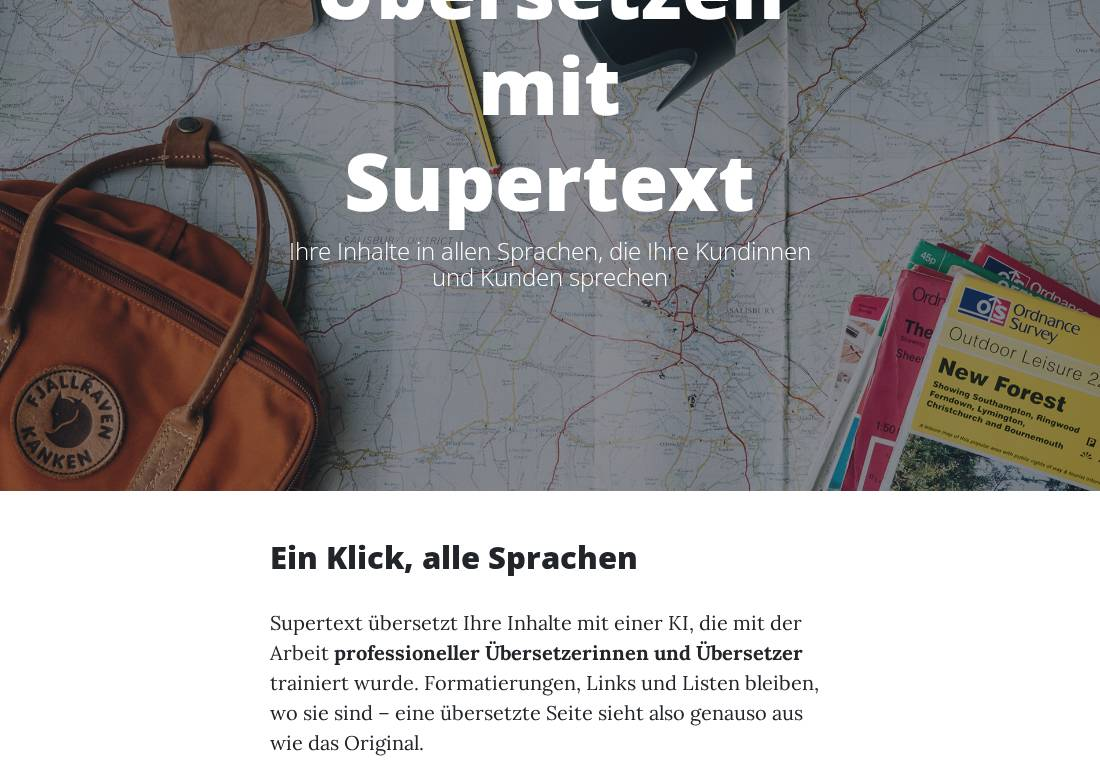
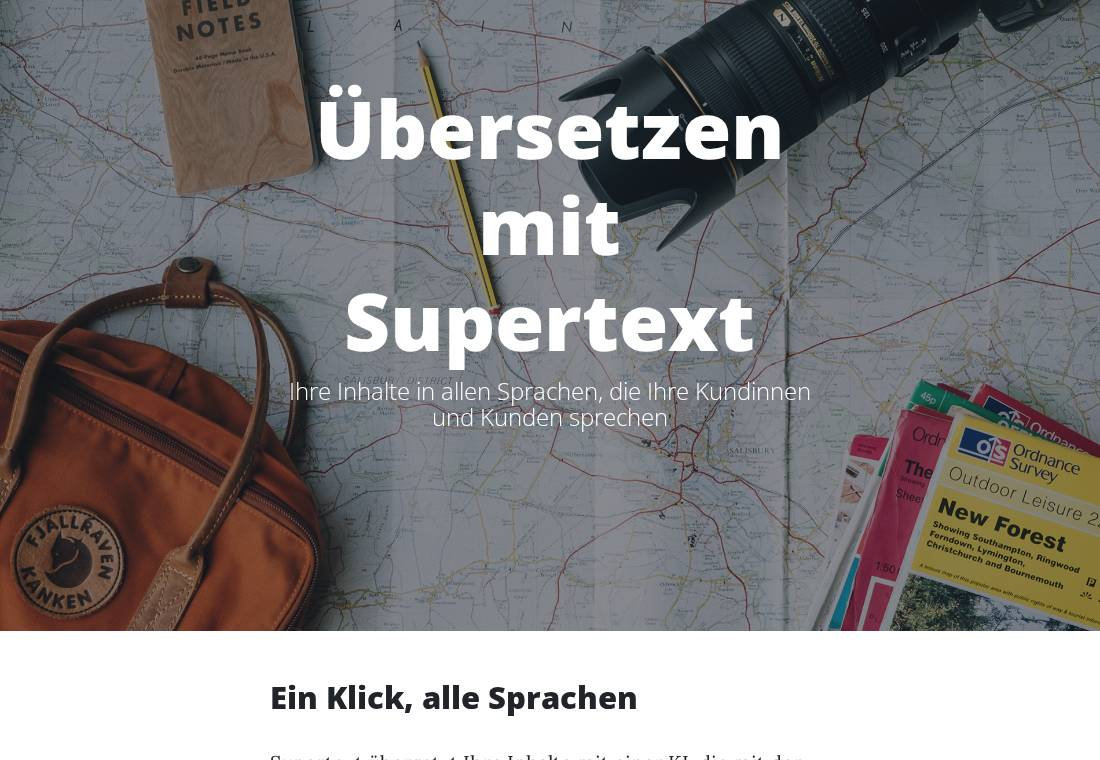
Review fixes: button permissions, safer settings, docs
- Buttons only show when the user may also localize and edit the item
- Localization hook catches every error so Orchard's own action goes on
- Settings: endpoint must be https (http only to loopback); keep the stored
  endpoint while SUPERTEXT_API_ENDPOINT is set (the field isn't posted)
- Docs: permission names, timeout range, comma-separated exclusions,
  ORCHARD_ADMIN_* fallback, absolute README links for NuGet
- Regenerated screenshots

Claude-Session: https://claude.ai/code/session_01LqtohosYqNhjnXD9E3bjNH

diff --git a/src/Supertext.OrchardCore.Translation/Drivers/SupertextSettingsDisplayDriver.cs b/src/Supertext.OrchardCore.Translation/Drivers/SupertextSettingsDisplayDriver.cs
@@ -71,9 +71,10 @@ public sealed class SupertextSettingsDisplayDriver(
         var model = new SupertextSettingsViewModel();
         await context.Updater.TryUpdateModelAsync(model, Prefix);
 
-        if (!string.IsNullOrWhiteSpace(model.Endpoint) && !Uri.TryCreate(model.Endpoint.Trim(), UriKind.Absolute, out _))
+        var endpointFromEnvironment = configuration.EndpointFromEnvironment != string.Empty;
+        if (!endpointFromEnvironment && !string.IsNullOrWhiteSpace(model.Endpoint) && !IsSafeEndpoint(model.Endpoint.Trim()))
         {
-            context.Updater.ModelState.AddModelError(Prefix, nameof(model.Endpoint), S["The endpoint must be an absolute URL, e.g. https://api.supertext.com/v1/."]);
+            context.Updater.ModelState.AddModelError(Prefix, nameof(model.Endpoint), S["The endpoint must be an https URL, e.g. https://api.supertext.com/v1/ (http only for localhost)."]);
         }
         if (model.PollTimeoutSeconds is < 30 or > 3600)
         {
@@ -90,7 +91,11 @@ public sealed class SupertextSettingsDisplayDriver(
             {
                 settings.ProtectedApiKey = configuration.Protect(model.ApiKey);
             }
-            settings.Endpoint = string.IsNullOrWhiteSpace(model.Endpoint) ? null : model.Endpoint.Trim();
+            // A disabled field (endpoint set by the environment) isn't posted: keep the stored value.
+            if (!endpointFromEnvironment)
+            {
+                settings.Endpoint = string.IsNullOrWhiteSpace(model.Endpoint) ? null : model.Endpoint.Trim();
+            }
             settings.Politeness = model.Politeness is "more" or "less" ? model.Politeness : "default";
             settings.TranslateNewLocalizations = model.TranslateNewLocalizations;
             settings.LanguageMapping = model.LanguageMapping?.Trim();
@@ -102,6 +107,11 @@ public sealed class SupertextSettingsDisplayDriver(
 
         return await EditAsync(site, settings, context);
     }
+
+    /// <summary>The API key travels in a header: only https, or http to this machine for testing.</summary>
+    private static bool IsSafeEndpoint(string endpoint)
+        => Uri.TryCreate(endpoint, UriKind.Absolute, out var uri)
+            && (uri.Scheme == Uri.UriSchemeHttps || (uri.Scheme == Uri.UriSchemeHttp && uri.IsLoopback));
 
     /// <summary>Cost-free check of the key in effect after saving.</summary>
     private async Task CheckConnectionAsync(SupertextSettings settings)

diff --git a/src/Supertext.OrchardCore.Translation/Drivers/SupertextContentDisplayDriver.cs b/src/Supertext.OrchardCore.Translation/Drivers/SupertextContentDisplayDriver.cs
@@ -1,6 +1,8 @@
 using Microsoft.AspNetCore.Authorization;
 using Microsoft.AspNetCore.Http;
 using OrchardCore;
+using OrchardCore.ContentLocalization;
+using OrchardCore.Contents;
 using OrchardCore.ContentLocalization.Models;
 using OrchardCore.ContentManagement;
 using OrchardCore.ContentManagement.Display.ContentDisplay;
@@ -36,6 +38,12 @@ public sealed class SupertextContentDisplayDriver(IAuthorizationService authoriz
             .RenderWhen(() => CanTranslateAsync(contentItem));
     }
 
-    private Task<bool> CanTranslateAsync(ContentItem contentItem)
-        => authorizationService.AuthorizeAsync(httpContextAccessor.HttpContext?.User, SupertextPermissions.TranslateWithSupertext, contentItem);
+    /// <summary>Same checks as the Translate page, so the button never leads to "access denied".</summary>
+    private async Task<bool> CanTranslateAsync(ContentItem contentItem)
+    {
+        var user = httpContextAccessor.HttpContext?.User;
+        return await authorizationService.AuthorizeAsync(user, SupertextPermissions.TranslateWithSupertext, contentItem)
+            && await authorizationService.AuthorizeAsync(user, ContentLocalizationPermissions.LocalizeContent, contentItem)
+            && await authorizationService.AuthorizeAsync(user, CommonPermissions.EditContent, contentItem);
+    }
 }

diff --git a/src/Supertext.OrchardCore.Translation/Handlers/SupertextLocalizationHandler.cs b/src/Supertext.OrchardCore.Translation/Handlers/SupertextLocalizationHandler.cs
@@ -55,5 +55,11 @@ public sealed class SupertextLocalizationHandler(
             logger.LogWarning(e, "Supertext translation of {ContentItemId} into {Culture} failed.", context.Original.ContentItemId, context.Culture);
             await notifier.WarningAsync(H["The {0} version was created but not translated: {1}", cultureName, e.Message]);
         }
+        catch (Exception e)
+        {
+            // Never break Orchard Core's own localization: the editor still gets the copy.
+            logger.LogError(e, "Unexpected error translating {ContentItemId} into {Culture}.", context.Original.ContentItemId, context.Culture);
+            await notifier.WarningAsync(H["The {0} version was created but not translated because of an unexpected error. Try Translate with Supertext later.", cultureName]);
+        }
     }
 }

diff --git a/src/Supertext.OrchardCore.Translation/Permissions.cs b/src/Supertext.OrchardCore.Translation/Permissions.cs
@@ -7,7 +7,7 @@ public static class SupertextPermissions
 {
     public static readonly Permission TranslateWithSupertext = new("TranslateWithSupertext", "Translate content with Supertext");
 
-    public static readonly Permission ManageSupertextSettings = new("ManageSupertextSettings", "Manage Supertext settings (API key)");
+    public static readonly Permission ManageSupertextSettings = new("ManageSupertextSettings", "Manage Supertext settings");
 }
 
 public sealed class Permissions : IPermissionProvider

diff --git a/docs/DEVELOPER.md b/docs/DEVELOPER.md
@@ -25,10 +25,10 @@ Orchard Core "Localizations → + culture" (ContentLocalization AdminController.
 | `Services/ContentWalker` | Finds translatable strings in a content item's JSON using the type definition (`PartSchema`/`FieldSchema`), recursing into `FlowPart.Widgets`, `BagPart.ContentItems` and `WidgetsListPart.Widgets`. Pure JSON, unit-tested. |
 | `Services/ContentTranslator` | Copies the source JSON (minus the target-owned parts `LocalizationPart`, `AutoroutePart`, `AliasPart`, `ContainedPart`), walks it, translates in documents of at most `MaxDocumentCharacters` (900 000), applies the result to the target with `ContentItem.Apply()` and sets `DisplayText`. |
 | `Services/SupertextConfiguration` | Settings in effect: site settings (`SupertextSettings`, key protected with data protection purpose `Supertext.OrchardCore.Translation.ApiKey`), overridden by `SUPERTEXT_API_KEY` / `SUPERTEXT_API_ENDPOINT` or the tenant configuration `Supertext:ApiKey` / `Supertext:Endpoint`. Language mapping and exclusions parsing. |
-| `Handlers/SupertextLocalizationHandler` | `IContentLocalizationHandler`; translates the clone during Orchard's own Localize action unless the setting is off or `SupertextScope.SuppressAutomaticTranslation` is set. Never throws (Orchard would log and continue anyway); notifies the editor. |
+| `Handlers/SupertextLocalizationHandler` | `IContentLocalizationHandler`; translates the clone during Orchard's own Localize action unless the setting is off or `SupertextScope.SuppressAutomaticTranslation` is set. Catches every error (Orchard's own localization always goes on) and tells the editor with a notification. |
 | `Controllers/AdminController` | The *Translate with Supertext* page. Requires `TranslateWithSupertext`, `LocalizeContent` and `EditContent` on the source, and `EditContent` on an existing target. Overwriting needs `confirmOverwrite`. Translates first, creates/loads the target only on success, so a failure leaves nothing behind. |
 | `Drivers/SupertextContentDisplayDriver` | Button shapes: `SupertextButton_SummaryAdmin` (`Actions:6`, next to *Localizations*) and `SupertextButton_Edit` (`Actions:35`). Only for saved items with a `LocalizationPart`. |
-| `Drivers/SupertextSettingsDisplayDriver` | Settings group `supertext`; validates endpoint and timeout; checks the key with `GET features` after saving. |
+| `Drivers/SupertextSettingsDisplayDriver` | Settings group `supertext`; validates endpoint (https, or http to loopback) and timeout (30–3600 s); keeps the stored endpoint while `SUPERTEXT_API_ENDPOINT` is set; checks the key with `GET features` after saving. |
 | `Permissions.cs` | `TranslateWithSupertext` (Administrator, Editor stereotypes), `ManageSupertextSettings` (Administrator). |
 
 **What is translated** (by part/field type name): `TitlePart.Title`, `HtmlBodyPart.Html` (HTML), `MarkdownBodyPart.Markdown` (text), `TextField.Text` for the editors *Standard* (empty), *TextArea* and *Header*, `HtmlField.Html` except the *Monaco* editor, `MarkdownField.Markdown`, `LinkField.Text`, `MediaField.MediaTexts[]`. Values without words (URLs, e-mails, paths, numbers, anchors) are skipped (`ContentWalker.ShouldTranslate`).

diff --git a/docs/INSTALLATION.md b/docs/INSTALLATION.md
@@ -77,7 +77,7 @@ Translated items get their URL from the translated title when they are saved.
 
 | Permission | Default roles | Allows |
 | --- | --- | --- |
-| Translate content with Supertext | Administrator, Editor | The *Supertext* buttons and the *Translate with Supertext* page. Also needs *Localize content* and *Edit content* on the item. |
+| Translate content with Supertext | Administrator, Editor | The *Supertext* buttons and the *Translate with Supertext* page, together with *Localize content* and *Edit content* on the item (the buttons only show when the user has all three). |
 | Manage Supertext settings | Administrator | **Settings → Supertext** |
 
 Grant them on the **Roles** page (`/Admin/Roles/Index`).
@@ -87,12 +87,12 @@ Grant them on the **Roles** page (`/Admin/Roles/Index`).
 | Setting | Default | Meaning |
 | --- | --- | --- |
 | API key | – | See above. |
-| API endpoint | `https://api.supertext.com/v1/` | Change only for testing. |
+| API endpoint | `https://api.supertext.com/v1/` | Change only for testing. Must be `https` (plain `http` only to `localhost`), because the API key travels with every request. Read-only while `SUPERTEXT_API_ENDPOINT` is set. |
 | Translate new localizations automatically | on | When an editor creates a culture version with Orchard Core's *Localizations* menu, the copy is translated before the editor opens it. Off: the copy stays in the source language; *Translate with Supertext* still works. |
 | Form of address | As in the source | *Formal* or *Informal* for languages that distinguish them (German *Sie*/*du*, French *vous*/*tu* …). |
 | Language codes | – | One `culture=code` per line, e.g. `de=de-CH` if your site uses `de` but you want Swiss German. |
-| Fields not to translate | – | One per line: `Part.Field` (e.g. `Article.Subtitle`), a whole part (e.g. `HtmlBodyPart`) or `ContentType.Part.Field`. These keep the source text. |
-| Timeout per language | 300 s | How long to wait for Supertext per language before giving up. |
+| Fields not to translate | – | One per line (or separated by commas): `Part.Field` (e.g. `Article.Subtitle`), a whole part (e.g. `HtmlBodyPart`) or `ContentType.Part.Field`. These keep the source text. |
+| Timeout per language | 300 s | How long to wait for Supertext per language before giving up (30–3600 s). |
 
 ## Troubleshooting
 

diff --git a/README.md b/README.md
@@ -10,12 +10,12 @@ Requires Orchard Core 3.0 (.NET 10) with the *Content Localization* feature.
 
 | Guide | For |
 | --- | --- |
-| [Installation](docs/INSTALLATION.md) | Administrators: install, API key, cultures, settings, troubleshooting |
-| [User guide](docs/USER_GUIDE.md) | Editors: translating and reviewing content |
-| [Developer guide](docs/DEVELOPER.md) | Architecture, Supertext API, tests, demo, releasing |
+| [Installation](https://github.com/Supertext/OrchardCore-Supertext-Translation/blob/main/docs/INSTALLATION.md) | Administrators: install, API key, cultures, settings, troubleshooting |
+| [User guide](https://github.com/Supertext/OrchardCore-Supertext-Translation/blob/main/docs/USER_GUIDE.md) | Editors: translating and reviewing content |
+| [Developer guide](https://github.com/Supertext/OrchardCore-Supertext-Translation/blob/main/docs/DEVELOPER.md) | Architecture, Supertext API, tests, demo, releasing |
 
 Demo: <https://orchardcore-production.up.railway.app/> (admin at `/Admin`).
 
-![Translate with Supertext: German translated as a draft](docs/images/translate-after.png)
+![Translate with Supertext: German translated as a draft](https://raw.githubusercontent.com/Supertext/OrchardCore-Supertext-Translation/main/docs/images/translate-after.png)
 
-Part of Supertext's translation plugins for the top open source CMS. Changes: [CHANGELOG.md](CHANGELOG.md).
+Part of Supertext's translation plugins for the top open source CMS. Changes: [CHANGELOG.md](https://github.com/Supertext/OrchardCore-Supertext-Translation/blob/main/CHANGELOG.md).

diff --git a/CHANGELOG.md b/CHANGELOG.md
@@ -8,7 +8,7 @@ All notable changes to this project are documented here. The format follows [Kee
 
 - *Translate with Supertext* page (content list and editor buttons): translate an item into several cultures, create missing localizations, overwrite existing ones after confirmation; results are saved as drafts.
 - Automatic translation of new localizations created with Orchard Core's *Localizations* menu (can be turned off).
-- Settings → Supertext: encrypted API key (with connection check), endpoint, form of address, language code mapping, excluded fields, timeout. `SUPERTEXT_API_KEY` / `SUPERTEXT_API_ENDPOINT` override the settings.
+- Settings → Supertext: encrypted API key (with connection check), endpoint (https only, except localhost), form of address, language code mapping, excluded fields, timeout. `SUPERTEXT_API_KEY` / `SUPERTEXT_API_ENDPOINT` override the settings.
 - Permissions *Translate content with Supertext* (Administrator, Editor) and *Manage Supertext settings* (Administrator).
 - Translates TitlePart, HtmlBodyPart, MarkdownBodyPart, TextField (prose editors), HtmlField, MarkdownField, LinkField text, MediaField alt texts, and widgets in FlowPart, BagPart and WidgetsListPart; Liquid in HTML is protected.
 - Railway demo (Orchard Core 3.0.1, TheBlogTheme, English → German, French, Italian) with demo accounts from `DEMO_*` variables.
